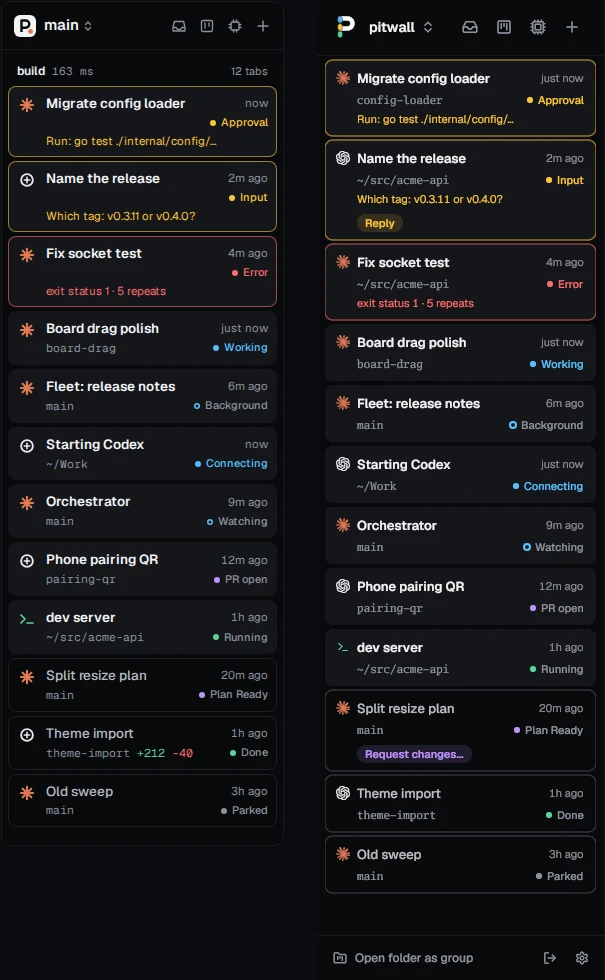
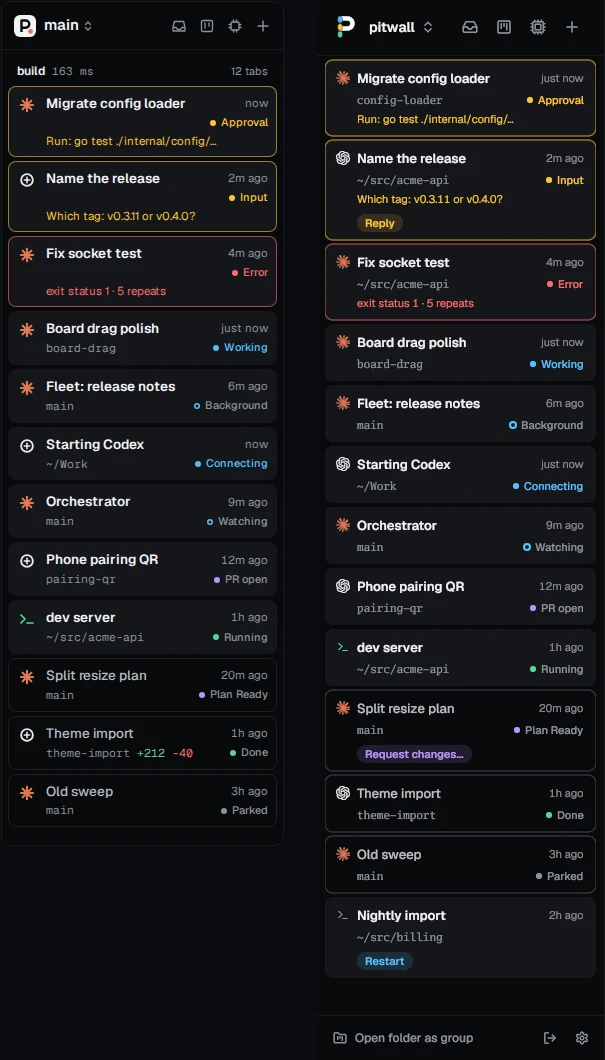
Show an exited tab's Restart line in the state ladder, with a test (ENG-3392)
The fixture's ladder gains a tab whose command exited, and
TestRestartLine checks its row grows by the answer line, the button sits
where Reply does, and a click sends Restart.

diff --git a/internal/ui/sidebar/answer_test.go b/internal/ui/sidebar/answer_test.go
@@ -7,9 +7,12 @@ import (
 
 	"gioui.org/f32"
 	"gioui.org/io/pointer"
+	"gioui.org/layout"
+	"gioui.org/unit"
 	"gioui.org/widget"
 
 	"github.com/quanticstudios/pitwall/internal/model"
+	"github.com/quanticstudios/pitwall/internal/ui/theme"
 )
 
 func TestFitPills(t *testing.T) {
@@ -168,5 +171,53 @@ func TestRowChoices(t *testing.T) {
 	h.clickAt(h.findOn(func() bool { return r.reply.Hovered() }))
 	if h.s.reply.ws != "w" {
 		t.Fatal("Reply on a plain question opened no sheet")
+	}
+}
+
+// An exited tab's Restart sits on the answer line under the row's text,
+// as Reply does: the row grows by that line, the button sits as far into
+// its row as Reply does into its own (less the Input tab's reason line),
+// and a click on it is a Restart.
+func TestRestartLine(t *testing.T) {
+	h := newReplyHarness(t)
+	h.st.Workspaces = append(h.st.Workspaces, model.Workspace{ID: "ex", Name: "Nightly import"})
+	h.s.Restartable = func(id string) bool { return id == "ex" }
+	h.frame()
+	top := map[string]elem{}
+	for _, x := range h.s.elems {
+		if x.kind == 's' {
+			top[x.id] = x
+		}
+	}
+	gtx := layout.Context{Metric: unit.Metric{PxPerDp: 1, PxPerSp: 1}}
+	th := theme.Dark()
+	e := top["ex"]
+	if got, want := e.bot-e.top, rowHeight(gtx, th)+actsGap+answerHeight(gtx, th); got != want {
+		t.Errorf("the exited tab's row is %d high, want %d with its answer line", got, want)
+	}
+	// first finds the top edge of a button on row r, scanning down; the
+	// list sits under the header, at most 120 below its content's top.
+	first := func(r elem, on func() bool) f32.Point {
+		for y := float32(r.top); y < float32(r.bot+120); y++ {
+			for x := float32(40); x < 120; x += 16 {
+				h.r.Queue(pointer.Event{Kind: pointer.Move, Position: f32.Pt(x, y), Source: pointer.Mouse})
+				h.frame()
+				if on() {
+					return f32.Pt(x, y)
+				}
+			}
+		}
+		t.Fatal("no such button")
+		return f32.Point{}
+	}
+	reply := first(top["w"], func() bool { return h.s.row("w").reply.Hovered() })
+	restart := first(e, func() bool { return h.s.row("ex").restart.Hovered() })
+	_, l2 := rowLines(gtx, th)
+	why := float32(statusGap + l2) // the Input tab's reason line
+	if got, want := restart.Y-float32(e.top), reply.Y-float32(top["w"].top)-why; got != want {
+		t.Errorf("Restart is %.0f into its row, Reply %.0f into its own without the reason line", got, want)
+	}
+	if evs := h.clickAt(restart); !slices.Contains(evs, Event(Restart{WorkspaceID: "ex"})) {
+		t.Errorf("a click on Restart sent %v", evs)
 	}
 }

diff --git a/cmd/pwdemo-sidebar/mock.go b/cmd/pwdemo-sidebar/mock.go
@@ -47,6 +47,9 @@ func mockState(sb *sidebar.Sidebar, kind string, now time.Time) (model.State, st
 		add("build", "l-done", "Theme import", "theme-import", "/src/web-app", time.Hour, model.ProviderCodex, model.StateCompleted)
 		st.Stats["l-done"] = model.BranchStats{Additions: 212, Deletions: 40}
 		add("build", "l-parked", "Old sweep", "main", "/src/web-app", 3*time.Hour, model.ProviderClaude, model.StateParked)
+		// A tab whose command exited: Restart on its own line.
+		add("build", "l-exit", "Nightly import", "", "/src/billing", 2*time.Hour, "", "")
+		sb.Restartable = func(id string) bool { return id == "l-exit" }
 		return st, ""
 	}
 	sb.HostOf = func(id string) string { return on[id] }
